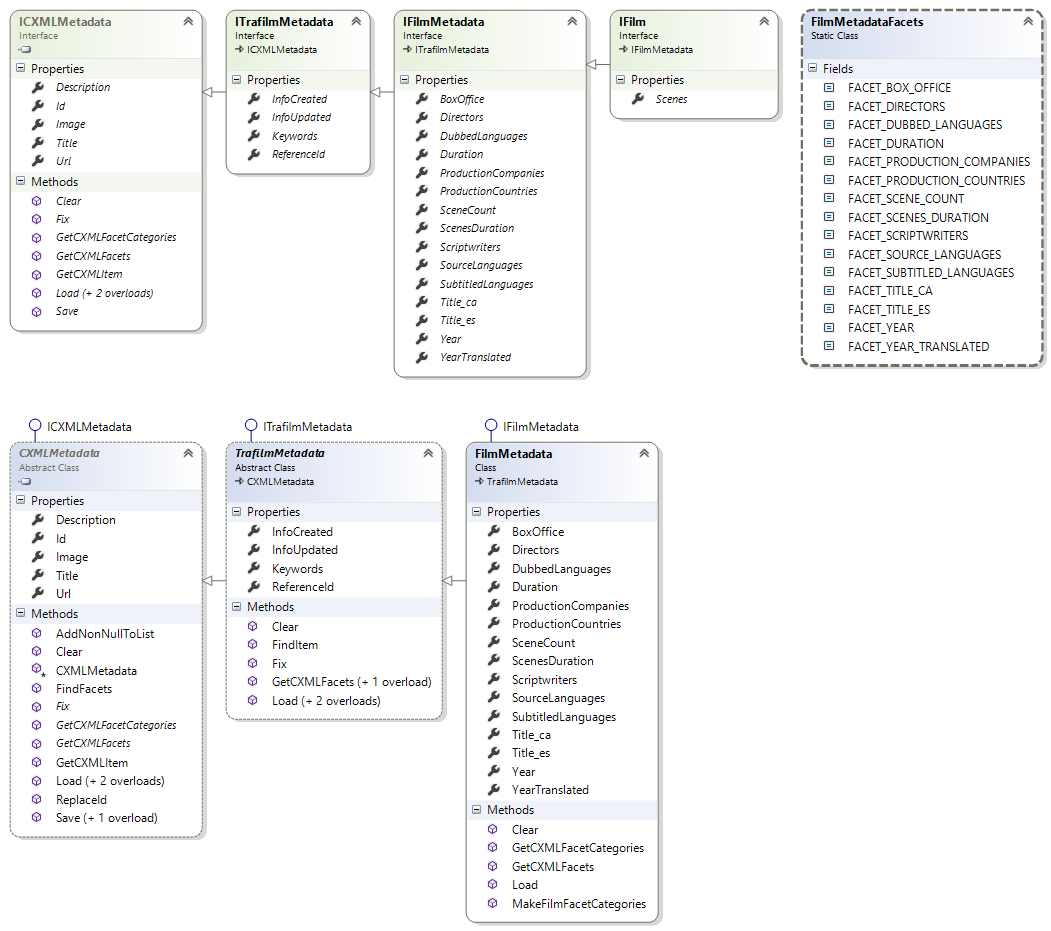
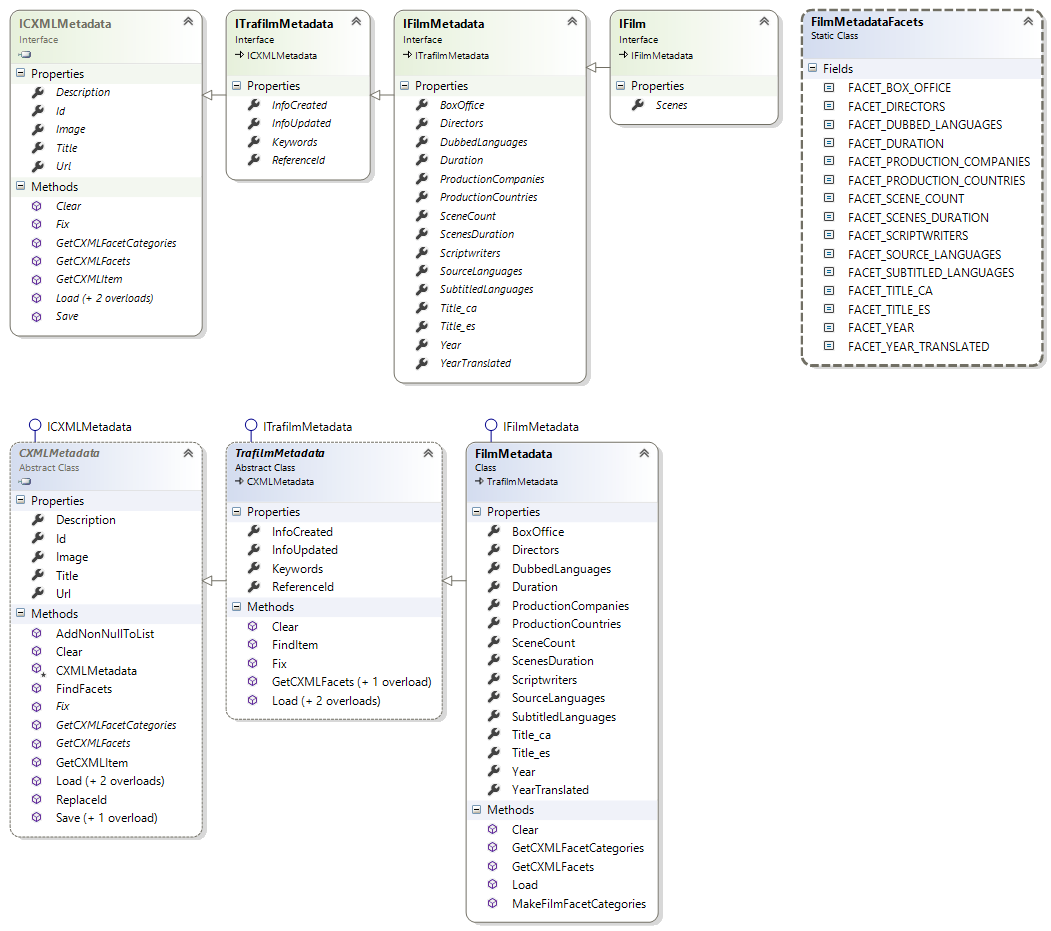
- Updated and renamed Diagrams - Exported new Diagram images (removed old ones) - Updated Readme.md to reference all diagram images - Added Readme.md and License.txt to solution items

diff --git a/README.md b/README.md
@@ -1,5 +1,18 @@
 # Trafilm.Metadata
-Library for manipulating Trafilm (http://Trafilm.net) Gallery Metadata in Collection XML (CXML) format (as defined for PivotViewer control)
+Library for manipulating hierarchical Trafilm (http://Trafilm.net) Gallery Metadata in Collection XML (CXML) format (as defined for PivotViewer control)
 
-# Class Diagram
-![Class Diagram for Trafilm.Metadata](https://github.com/Zoomicon/Trafilm.Metadata/blob/master/Diagrams/Trafilm.Metadata.png)
+# Class Diagrams
+
+![Class Diagram for Objects](https://github.com/Zoomicon/Trafilm.Metadata/blob/master/Diagrams/Objects.png)
+
+![Class Diagram for Models](https://github.com/Zoomicon/Trafilm.Metadata/blob/master/Diagrams/Models.png)
+
+![Class Diagram for Facets](https://github.com/Zoomicon/Trafilm.Metadata/blob/master/Diagrams/Facets.png)
+
+![Class Diagram for TrafilmMetadata](https://github.com/Zoomicon/Trafilm.Metadata/blob/master/Diagrams/TrafilmMetadata.png)
+
+![Class Diagram for FilmMetadata](https://github.com/Zoomicon/Trafilm.Metadata/blob/master/Diagrams/FilmMetadata.png)
+
+![Class Diagram for SceneMetadata](https://github.com/Zoomicon/Trafilm.Metadata/blob/master/Diagrams/SceneMetadata.png)
+
+![Class Diagram for UtteranceMetadata](https://github.com/Zoomicon/Trafilm.Metadata/blob/master/Diagrams/UtteranceMetadata.png)
